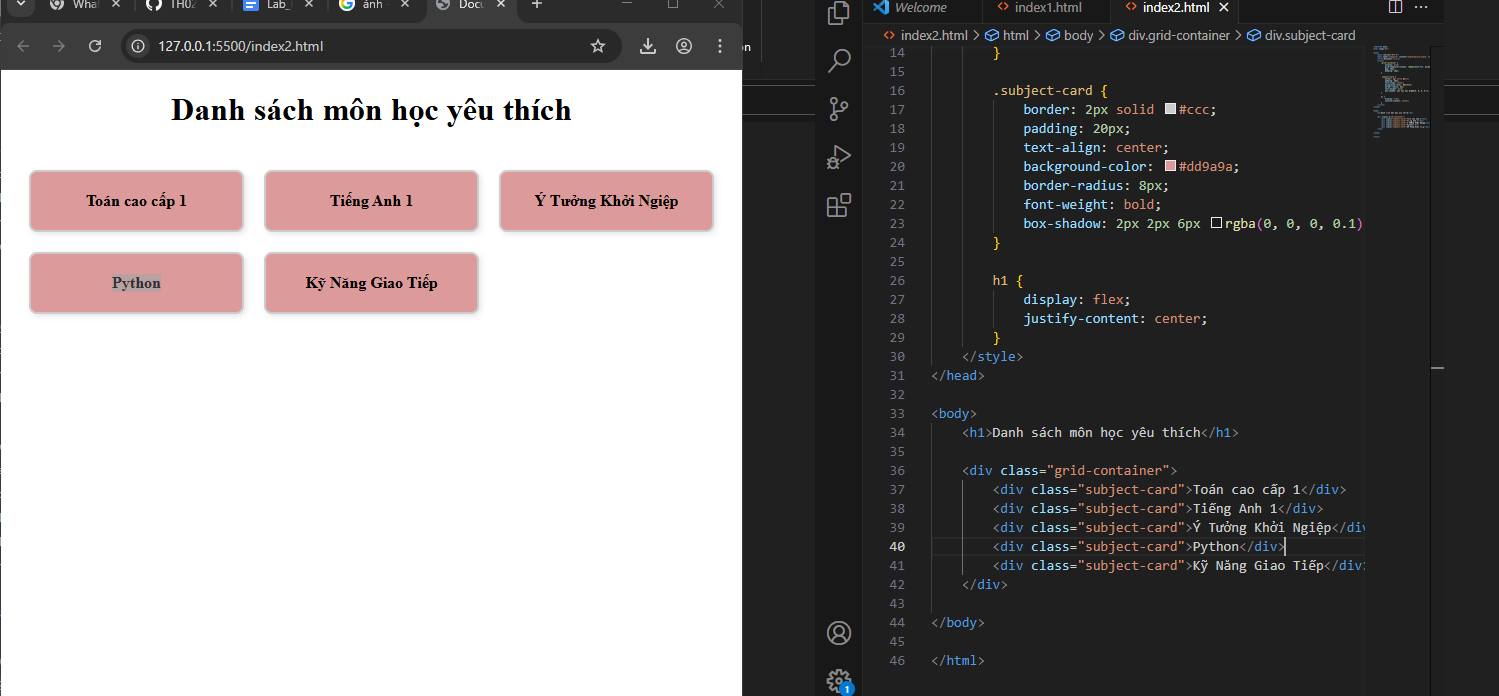
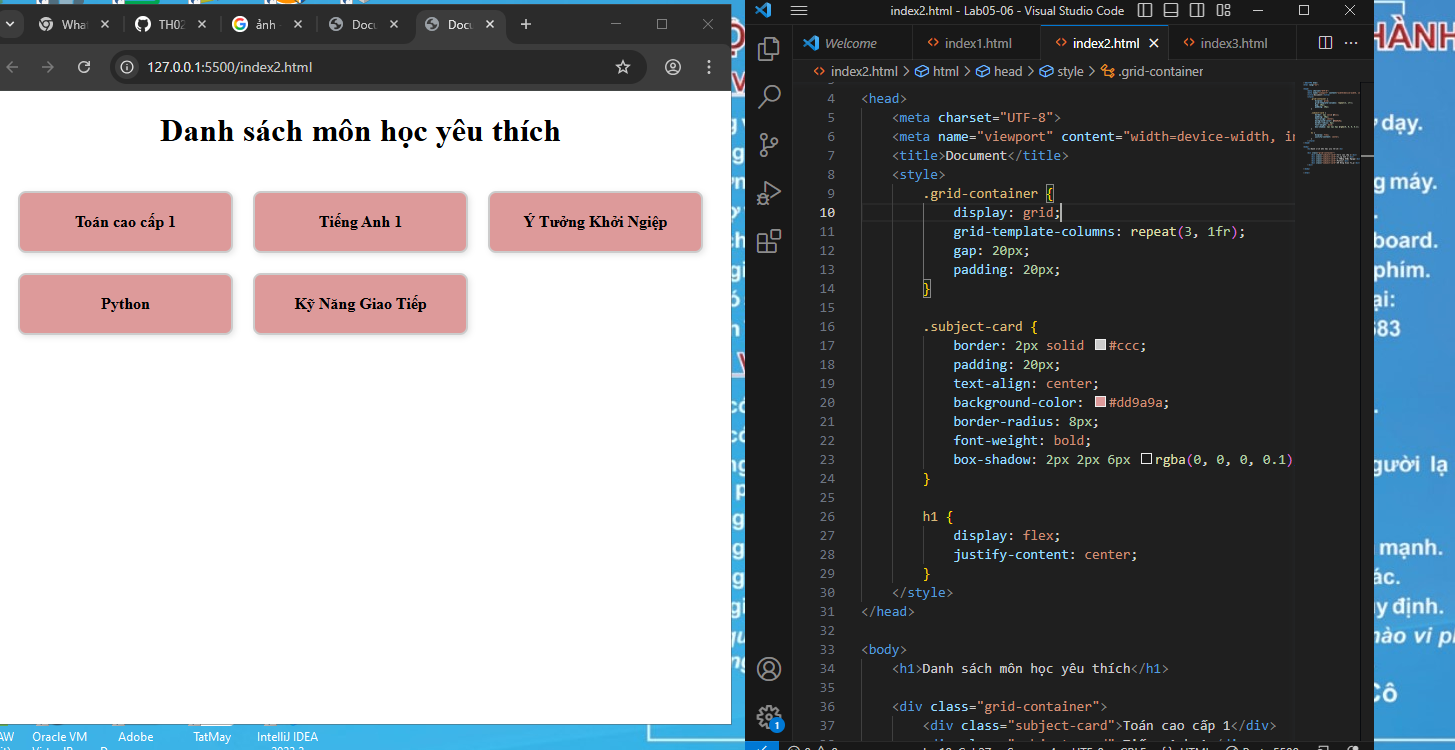
add file index2.html + anh2

Changed region(s): [[0.0, 0.0, 1.0, 1.0]]

diff --git a/Lab05-06/index2.html b/Lab05-06/index2.html
@@ -8,7 +8,7 @@
     <style>
         .grid-container {
             display: grid;
-            grid-template-columns: repeat(auto-fit, minmax(200px, 1fr));
+            grid-template-columns: repeat(3, 1fr);
             gap: 20px;
             padding: 20px;
         }
